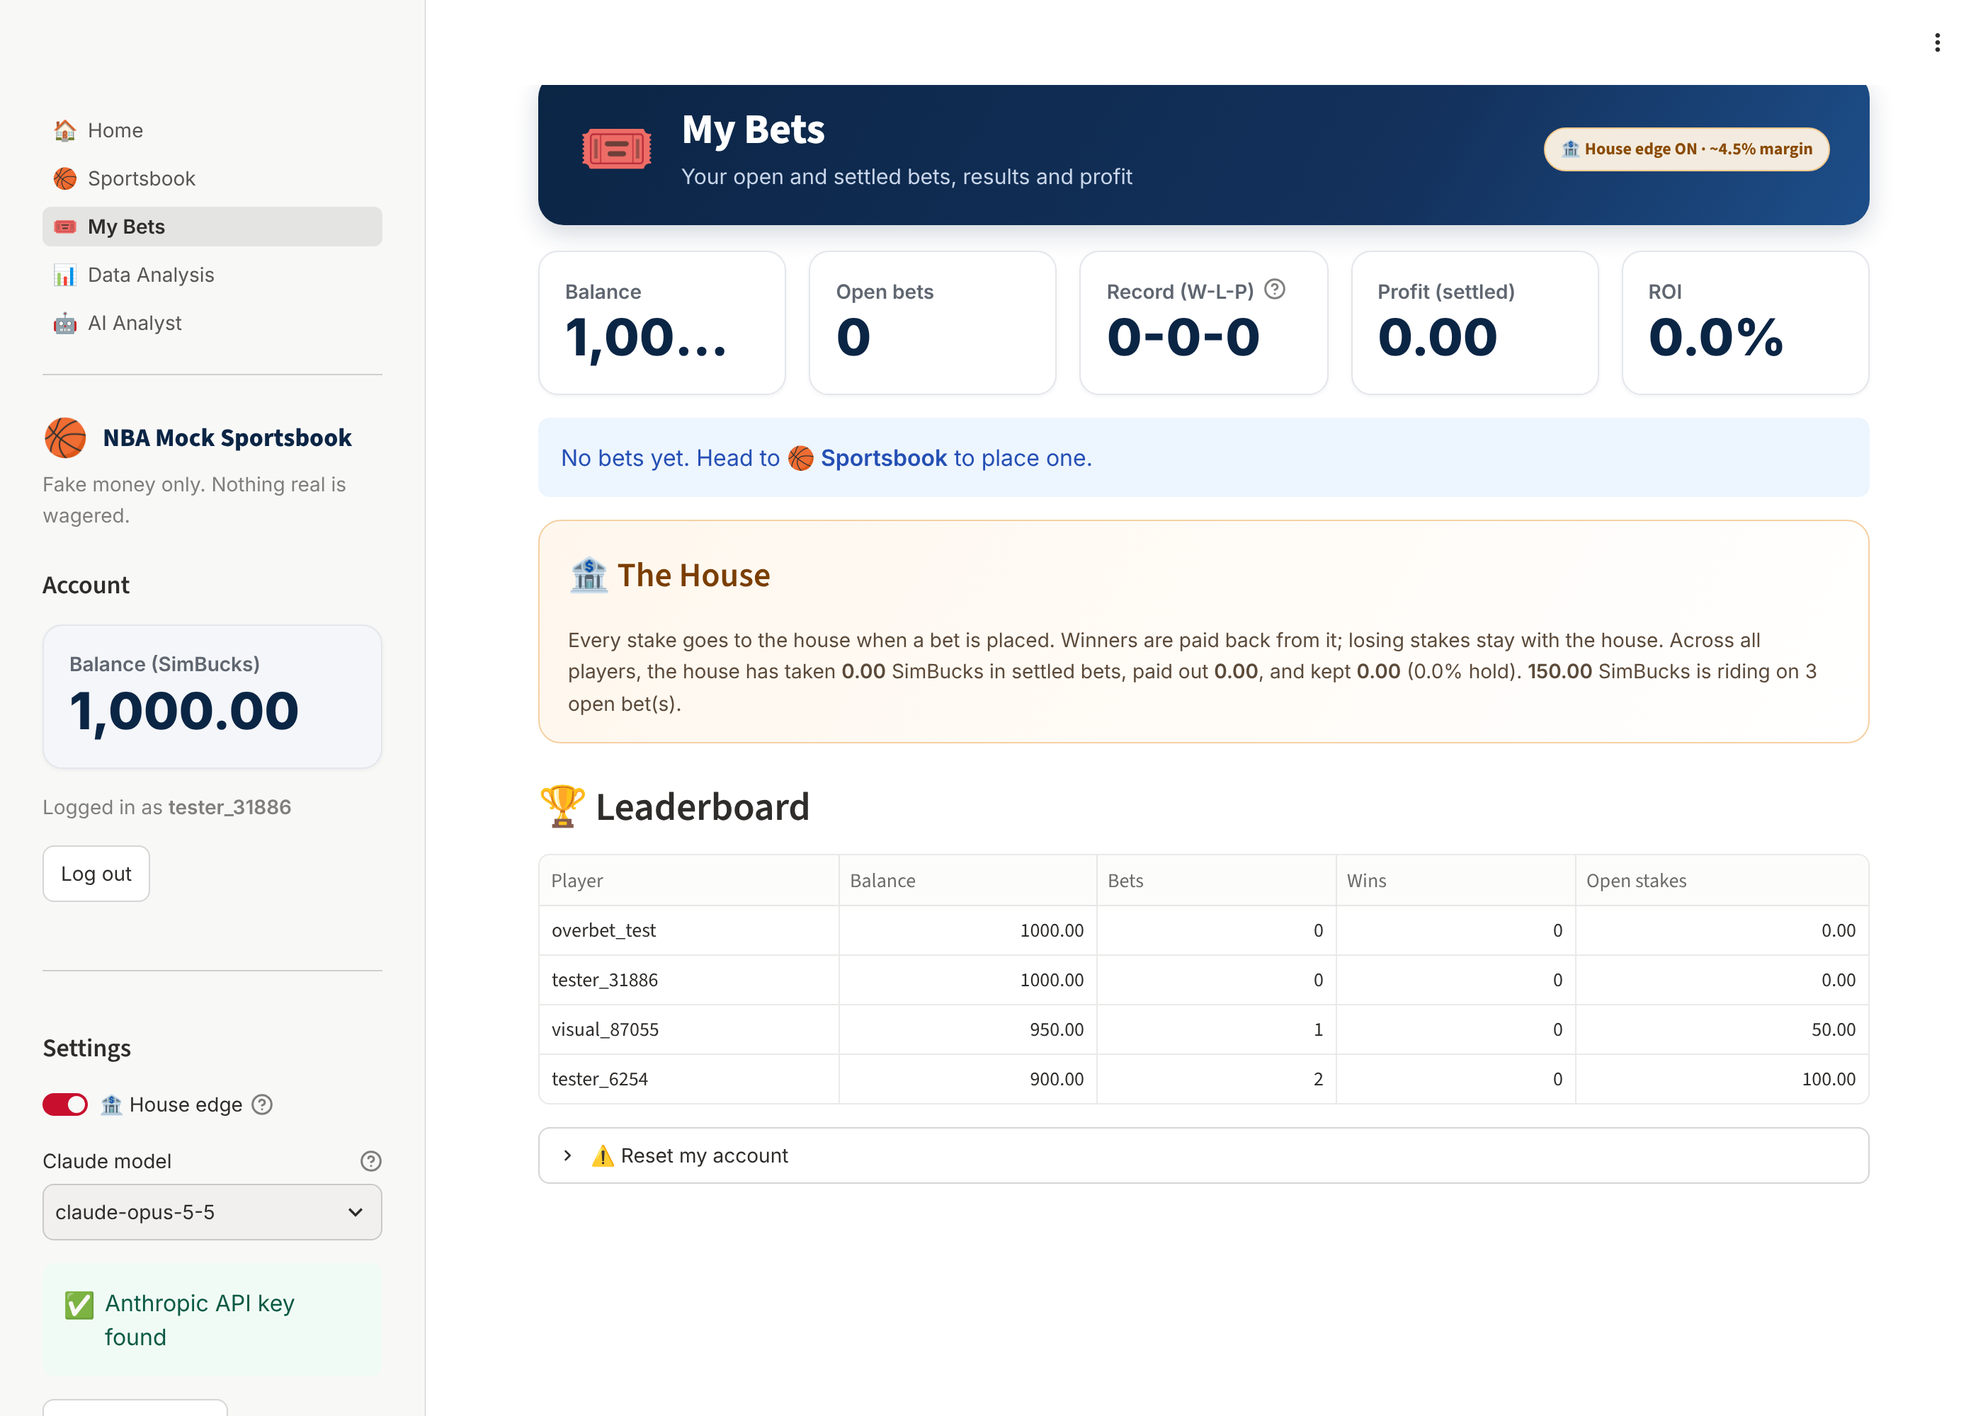
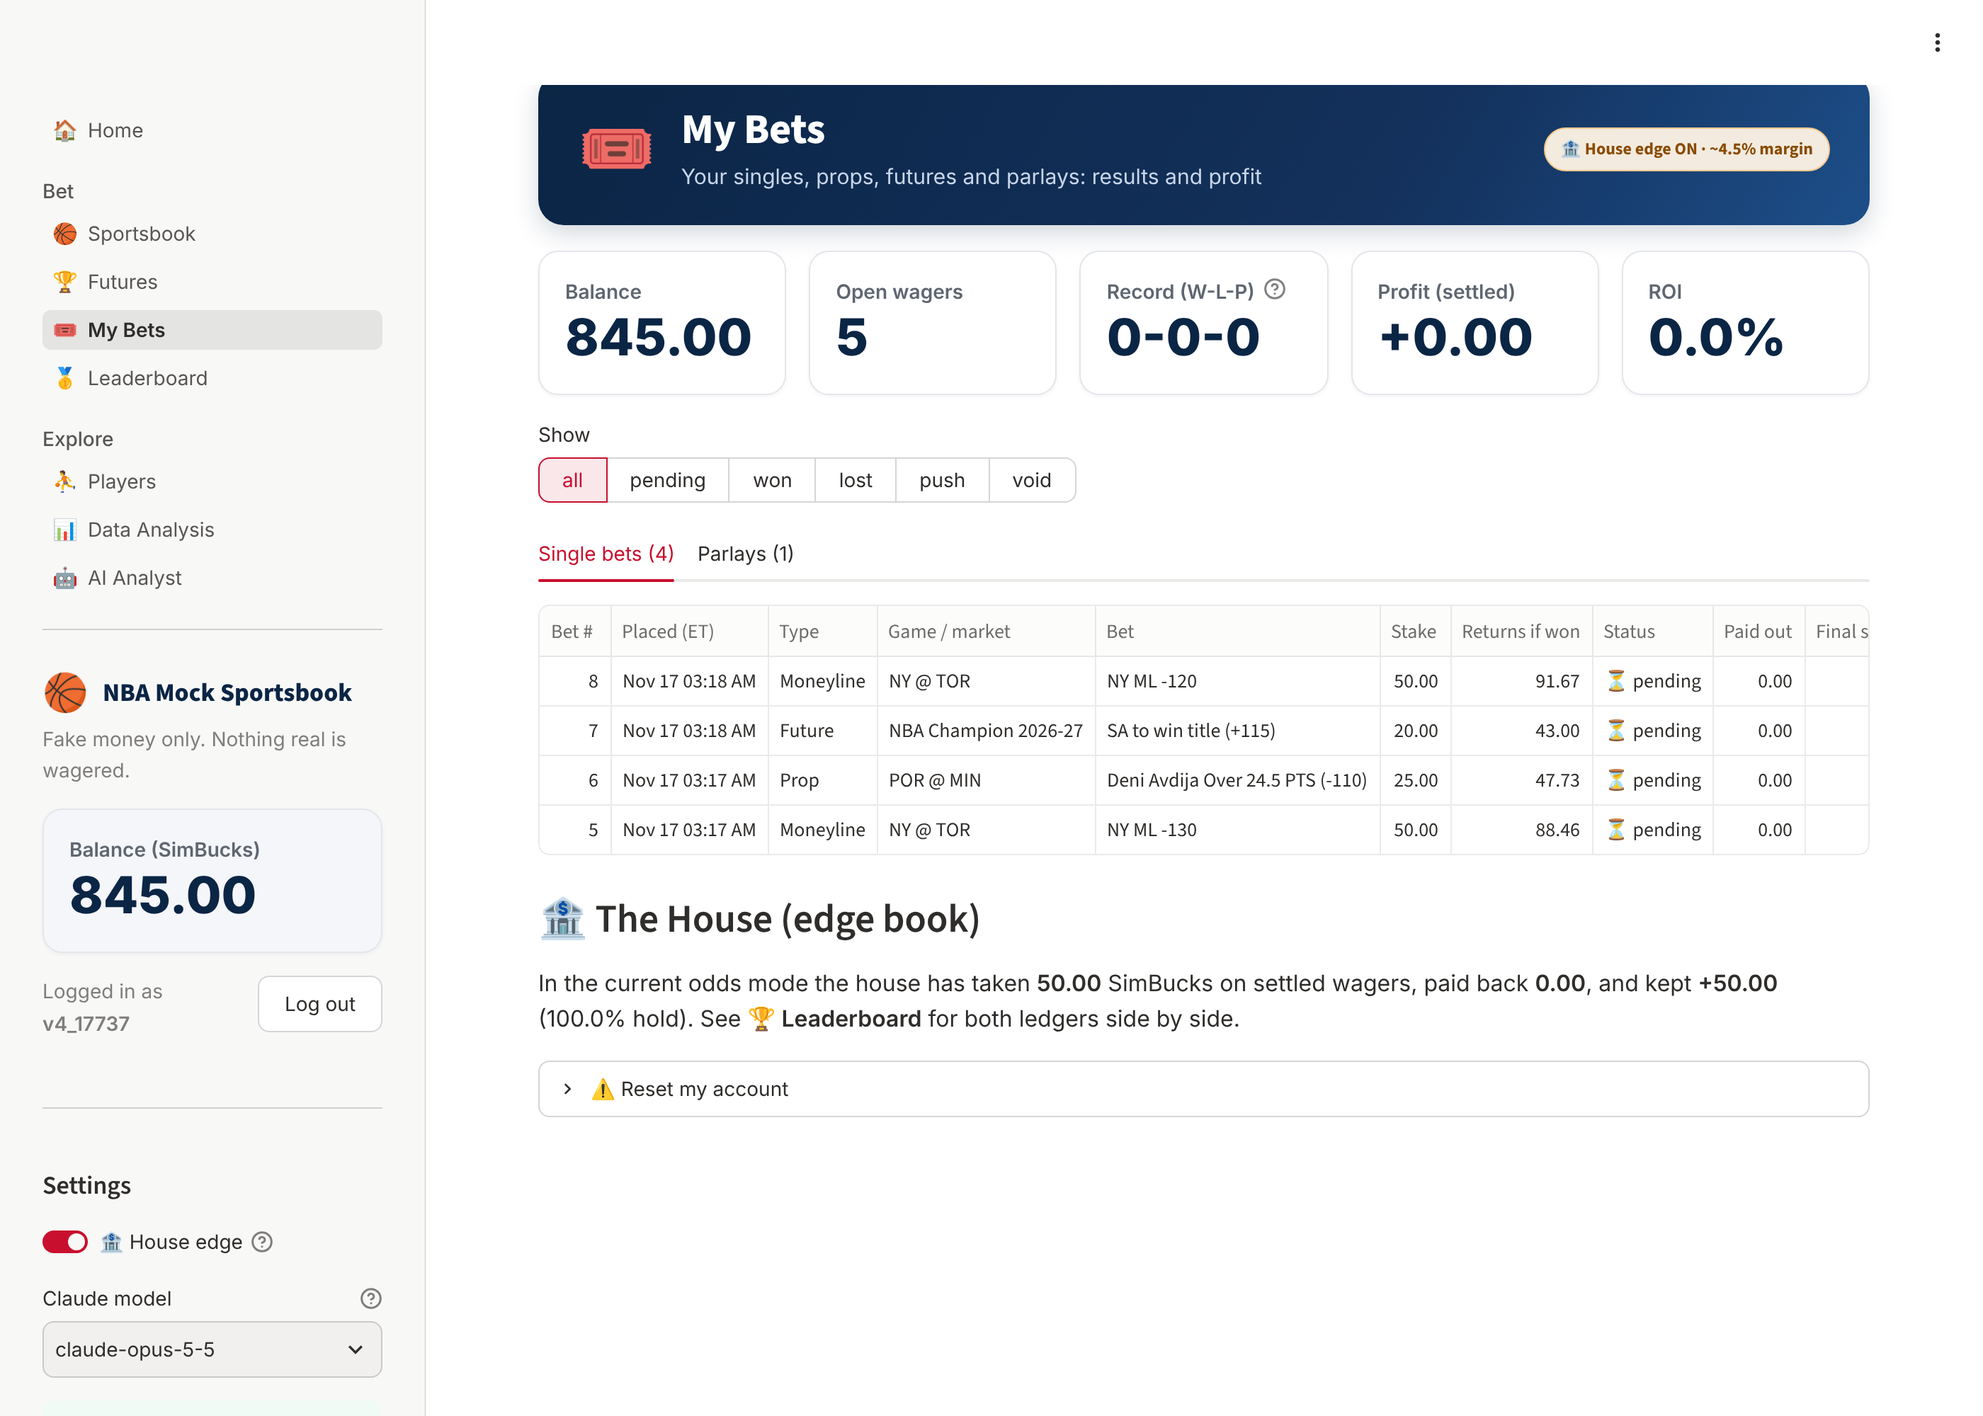
Document new features; refresh screenshots, report and data snapshot
Claude-Session: https://claude.ai/code/session_014QqYfGmHi8meJ8RYUnJZJK

diff --git a/README.md b/README.md
@@ -36,15 +36,18 @@ then into prices. This project rebuilds that pipeline end to end:
 | **Clean & explore** | Missing data, outliers, distributions, trends, correlations | `src/eda.py`, `views/data_analysis.py` |
 | **Model** | Team power ratings (weighted ridge regression) → win probabilities → odds | `src/odds_model.py` |
 | **Evaluate** | Walk-forward back-test: accuracy, Brier score, calibration | `src/odds_model.py::backtest` |
-| **Bet** | Moneyline / spread / total bets; auto-settled from final scores | `src/betting.py`, `views/sportsbook.py` |
+| **Bet** | Moneylines, spreads, totals, **player props**, **parlays** and **futures**; auto-settled from final scores and box scores; two house ledgers | `src/betting.py`, `src/players.py`, `src/futures.py` |
 | **LLM** | AI EDA report, "explain this chart", game previews, analyst chatbot | `src/llm.py`, `views/ai_analyst.py` |
 
 ### App pages
 | Page | What you can do |
 |---|---|
 | 🏠 **Home** | Overview, next games with odds, top power ratings, how-to guide |
-| 🏀 **Sportsbook** | Sportsbook-style game cards with team logos, odds and the model's win probability; a bet slip showing payout, model chance vs. implied odds, and expected value; AI matchup preview |
-| 🎟 **My Bets** | Open/settled bets, W-L-P record, ROI, cumulative profit chart, leaderboard, and **🏦 The House** ledger (house-edge mode) |
+| 🏀 **Sportsbook** | Game cards with team logos, odds and the model's win probability. Each game has a betting panel: **game lines**, **🎯 player props** (points / rebounds / assists / 3PM) and an **AI preview**. **➕ Add to parlay** builds a 2-8 leg **parlay slip** in the sidebar. The bet slip shows payout, model chance vs. implied odds, and expected value |
+| 🏆 **Futures** | Championship odds from a **5,000-run season simulation** (rest of season → play-in → best-of-7 playoffs); bet on the champion |
+| 🎟 **My Bets** | Singles, props, futures and parlays (with each leg's result), W-L-P record, ROI, profit chart, house ledger for the current odds mode |
+| 🥇 **Leaderboard** | Podium, every user ranked by net profit (win %, ROI, biggest win) and **two separate house ledgers** (house-edge book vs. fair-odds book) with a profit-over-time chart |
+| ⛹ **Players** | League leaders with photos, player profiles (season averages, game-log chart and table) and that player's props for the next game |
 | 📊 **Data Analysis** | Interactive EDA with season, game-type and team filters, plus model evaluation and "🤖 Explain this with AI" |
 | 🤖 **AI Analyst** | AI-written EDA report (downloadable) and a chatbot that knows the app's data and your bets |
 
@@ -133,6 +136,15 @@ Response structure (trimmed to the fields we use):
 points, rebounds, assists, FG / 3PT / FT made, attempted and %, plus record). For the analysis it is
 reshaped to **one row per team per game**.
 
+### ESPN game summary API (player box scores)
+| | |
+|---|---|
+| Endpoint | `https://site.api.espn.com/apis/site/v2/sports/basketball/nba/summary?event=<game_id>` |
+| Used for | Player stats per game (minutes, points, rebounds, assists, 3PM, shooting, +/-, starter, did-not-play) for **player props**, prop settlement and the **Players** page |
+| Retrieval | One request per completed game, 8 in parallel; each game is downloaded once. `data/player_games_snapshot.csv` (about 40,000 player-games from 2025-26 and 2026-27) ships with the repo, so a first launch only fetches new games |
+
+Structure: `boxscore.players[team].statistics[0] = {keys: ["minutes", "points", ...], athletes: [{athlete: {id, displayName, headshot}, starter, didNotPlay, stats: ["34", "27", ...]}]}`
+
 **Cleaning:** we remove preseason games and the **All-Star Game**, which ESPN labels as regular season.
 Our missing-data check flagged it because those games have no box scores. Postponed games
 (`STATUS_POSTPONED`) are kept out of the analysis, and bets on them are voided and refunded.
@@ -164,11 +176,24 @@ second regression splits teams into offense (points scored) and defense (points 
 | Book margin (implied probs − 100%) | ≈ 4.5–4.8% | 0% |
 | Bettor's expected value | Negative: the house profits over time | ≈ 0: nobody has an edge |
 
-**Where the money goes.** A stake leaves the bettor's balance when the bet is placed. When the game ends, the house
-pays back stake + winnings (win), the stake (push or postponed game), or nothing (loss), so the house keeps losing stakes and
-pays winners. In house-edge mode, *My Bets* shows **🏦 The House** ledger: total handle, paid out, house profit and hold %.
+**Where the money goes: two house ledgers.** A stake leaves the bettor's balance when the bet is placed and goes to
+the house. When it settles, the house pays back stake + winnings (win), the stake (push or void), or nothing (loss).
+Every wager records which odds mode it was priced in, so the house keeps **two separate ledgers**: the
+**house-edge book** and the **fair-odds book**. The *Leaderboard* shows both side by side, plus a chart of each one's
+cumulative profit over time. Over many bets the edge book trends up (the margin), while the fair book only moves by luck.
 The bet slip also shows each bet's **expected value** (`P(win) × profit − P(loss) × stake`), which makes the house
 edge visible before you bet.
+
+**Player props.** Line = the player's recency-weighted average over the last 20 games (8-game half-life), set at x.5
+so there are no pushes. P(over) = 1 − Φ((line − mean) / sd), using the player's own game-to-game spread.
+Offered for each team's top 4 players by recent minutes who played the team's latest game.
+
+**Parlays.** 2-8 legs from different games (game lines and/or props). Decimal odds multiply. One losing leg loses the
+parlay; pushed or voided legs drop out of the odds.
+
+**Futures (championship).** 5,000 simulated seasons: each team adds Binomial(games left, p) wins (p = its chance to beat an
+average team), then seeding, play-in, and best-of-7 series using the ratings model with home court. Title probability =
+share of simulations won. With the house edge on, futures carry a ~25% margin (real books hold more on futures).
 
 **Key EDA findings** (about 1,520 completed games as of Nov 16, 2026; numbers update as new games finish):
 - **Home-court advantage:** home teams win **55.0%**, by **+1.75 pts** on average. Controlling for team strength, the model estimates **+2.3 pts**.
@@ -195,20 +220,24 @@ The calibration curve tracks the diagonal: teams given a 70% chance win about 70
 nba-sportsbook/
 ├── app.py                    # entry point + page navigation
 ├── views/                    # one file per page (UI only)
-│   ├── home.py  sportsbook.py  my_bets.py  data_analysis.py  ai_analyst.py
+│   ├── home.py  sportsbook.py  futures.py  my_bets.py  leaderboard.py
+│   ├── players.py  data_analysis.py  ai_analyst.py
 ├── src/                      # logic (no Streamlit except ui.py), unit-tested
 │   ├── data_fetcher.py       # ESPN API calls + JSON parsing
 │   ├── data_service.py       # refresh/caching logic, data cleaning, offline snapshot
 │   ├── database.py           # SQLite schema + queries
 │   ├── eda.py                # EDA functions (pure pandas)
 │   ├── odds_model.py         # ratings, odds math, back-test
-│   ├── betting.py            # place / grade / settle / void bets
+│   ├── betting.py            # place / grade / settle bets, props, futures and parlays
+│   ├── players.py            # ESPN box scores, player averages, prop lines
+│   ├── futures.py            # season + playoff Monte Carlo, championship odds
 │   ├── llm.py                # Claude API integration + prompts
 │   ├── charts.py             # Plotly chart builders (one consistent palette)
-│   ├── style.py              # page styling: banners, game cards, odds boxes, house panel
+│   ├── style.py              # page styling: banners, game cards, odds boxes, player cards, podium, ledgers
 │   └── ui.py                 # shared Streamlit helpers (sidebar, caching, streaming)
-├── tests/                    # pytest suite (36 tests; no network or API key needed)
-├── data/games_snapshot.csv   # offline data snapshot
+├── tests/                    # pytest suite (50 tests; no network or API key needed)
+├── data/games_snapshot.csv   # offline data snapshot (games)
+├── data/player_games_snapshot.csv  # player box scores (offline + fast first launch)
 ├── docs/                     # report, presentation plan, team workflow, screenshots
 ├── .github/workflows/ci.yml  # GitHub Actions: lint + tests on every push / PR
 ├── pyproject.toml            # ruff (lint) + pytest config
@@ -219,7 +248,8 @@ nba-sportsbook/
 
 ## 7. Testing & code quality
 ```bash
-pytest -q          # 36 unit tests: odds math, bet grading/settlement/voiding, JSON parsing,
+pytest -q          # 50 unit tests: odds math, bet grading/settlement/voiding, parlays, props, futures,
+                   # house ledgers, leaderboard, database upgrade, season simulation, JSON parsing,
                    # model recovers known team strengths, EDA helpers, LLM prompts & error handling
 pip install ruff
 ruff check .       # lint (style, imports, common bugs)
@@ -233,15 +263,15 @@ The LLM tests use a fake client, so they need no API key and cost nothing.
 
 | Requirement | Where it's met |
 |---|---|
-| Connect to an external API for real data | ESPN API, `src/data_fetcher.py` |
+| Connect to an external API for real data | ESPN scoreboard API (games) + ESPN summary API (player box scores): `src/data_fetcher.py`, `src/players.py` |
 | Document source and structure (JSON) | Section 4 above; *Data Analysis → Overview → Data source* |
-| Data retrieval and storage logic | `src/data_service.py` (incremental refresh), `src/database.py` (SQLite) |
+| Data retrieval and storage logic | `src/data_service.py`, `src/players.py` (incremental, parallel), `src/database.py` (SQLite with in-place upgrades) |
 | Descriptive statistics and visualizations | *Data Analysis → Distributions & trends* |
 | Outliers and missing data: identify and treat | *Data Analysis → Data quality* (IQR, winsorizing; All-Star and postponed games) |
 | Correlation analysis | *Data Analysis → Correlations* (Pearson/Spearman heatmap, scatter + fit) |
 | Insights shown in the app | *Overview → Key insights*, playoff insight, model evaluation |
 | LLM via API, used meaningfully | `src/llm.py`: report, chart explanations, previews, chatbot |
-| Clean UI; users can filter, visualize and query | Sportsbook-style design with team logos; filters on Sportsbook and EDA pages; house-edge switch; chatbot for natural-language queries |
+| Clean UI; users can filter, visualize and query | 8 pages in a sportsbook-style design (logos, player photos); filters on Sportsbook, Players and EDA pages; house-edge switch; parlay slip; chatbot for natural-language queries |
 | Error handling, documentation, user guidance | Friendly errors everywhere, offline fallback, how-to on Home, tooltips |
 | Modular, documented, readable code | `src/` vs `views/` split, docstrings, ruff lint |
 | Git/GitHub with commits from each member | See section 9 and `docs/TEAM_WORKFLOW.md` |

diff --git a/docs/PRESENTATION.md b/docs/PRESENTATION.md
@@ -8,12 +8,12 @@ Each member presents the part they built. Rehearse once with a timer.
 | 1:00–3:00 | **Data acquisition** | Member 1 | ESPN API: free JSON, one request per month, cached in SQLite, offline CSV fallback. Show *Data Analysis → Overview → Data source* and the JSON example in the README. |
 | 3:00–6:00 | **EDA** | Member 2 | *Data quality*: **the All-Star Game story** (games with missing box scores revealed ESPN labels the All-Star Game as regular season) plus **postponed games**. *Outliers*: move the IQR slider; winsorizing barely changes the mean. *Correlations*: **FG% r = 0.47 vs. 3PT attempts r ≈ 0, so efficiency beats volume**. *Trends*: **playoff games score about 15 fewer points**. Click **🤖 Explain this with AI** once. |
 | 6:00–8:30 | **The model** | Member 3 | *Teams*: ridge-regression power ratings, home court ≈ +2.3 pts. *Model evaluation*: **68% accuracy vs. 55% for always picking home**, Brier 0.208 vs. 0.25, and the **calibration plot** (key slide: 70% favorites win about 70%). |
-| 8:30–12:30 | **Live demo** | Member 4 | Log in → **Sportsbook** → pick a game → **AI matchup preview** → open the bet slip: point at **model chance vs. odds imply** and the **negative expected value** (that's the house edge) → **flip the 🏦 House edge switch off**: odds become even money, margin 0%, EV ≈ 0 → switch it back on → place a spread bet → balance drops instantly → **My Bets** shows yesterday's **settled** bets, the profit chart and **🏦 The House** ledger (what the house kept) → **AI Analyst** → *Generate report* → chatbot: "Which upcoming game has the closest odds?" then "How am I doing with my bets?" |
-| 12:30–14:00 | **Engineering** | Anyone | `src/` (logic) vs `views/` (UI); 36 pytest tests incl. a fake-LLM test; GitHub Actions CI badge/run; PR workflow; graceful errors (no key, ESPN offline, postponed games). |
+| 8:30–12:30 | **Live demo** | Member 4 | Log in → **Sportsbook**: open a game's bet panel → **🎯 Player props** tab (player card, last-10 average) → **➕ Add to parlay** on 2-3 games → place the parlay from the sidebar slip → **🏆 Futures** (the 5,000-season simulation, title favorite) → **⛹ Players** (league leaders, a player's game log) → back to **Sportsbook** → pick a game → **AI matchup preview** → open the bet slip: point at **model chance vs. odds imply** and the **negative expected value** (that's the house edge) → **flip the 🏦 House edge switch off**: odds become even money, margin 0%, EV ≈ 0 → switch it back on → place a spread bet → balance drops instantly → **My Bets** shows yesterday's **settled** bets and the parlay's leg-by-leg results → **🥇 Leaderboard**: podium, standings and the **two house ledgers** (edge vs. fair) with the profit-over-time chart → **AI Analyst** → *Generate report* → chatbot: "Which upcoming game has the closest odds?" then "How am I doing with my bets?" |
+| 12:30–14:00 | **Engineering** | Anyone | `src/` (logic) vs `views/` (UI); 50 pytest tests (parlays, props, futures, ledgers, database upgrade, fake-LLM); GitHub Actions CI badge/run; PR workflow; graceful errors (no key, ESPN offline, postponed games). |
 | 14:00–15:00 | **Lessons & next steps** | Anyone | Real data is messy; evaluate honestly (walk-forward); ground the LLM in your own numbers. Next: injuries/rest days, compare with real sportsbook lines, parlays. |
 
 ## Demo-day checklist
-- [ ] **The night before:** log in as your demo user and place 3–4 bets on that night's games, so by class they've **settled** and My Bets shows a W-L record and profit chart
+- [ ] **The night before:** log in as your demo user and place 3–4 bets on that night's games (include one **player prop** and one **parlay**), so by class they've **settled** and My Bets shows a W-L record, profit chart and parlay results
 - [ ] Start the app on the presenting laptop **before** class: `streamlit run app.py` (first load downloads data)
 - [ ] `.streamlit/secrets.toml` has a working key; click one **AI matchup preview** before presenting
 - [ ] Backup: take screenshots of AI output in case the Wi-Fi fails (the rest of the app works offline)
@@ -21,7 +21,9 @@ Each member presents the part they built. Rehearse once with a timer.
 
 ## Likely questions & answers
 - **Is the sportsbook fair?** The lines are centered on the model's best estimate, so it doesn't pick winners against you. The only unfairness is the margin (vig), like every real book. The switch turns it off, and the bet slip's expected value goes to about 0.
-- **Where does lost money go?** To the house: stakes leave your balance when you bet, winners are paid back, and losing stakes stay with the house. See the House ledger on My Bets.
+- **Where does lost money go?** To the house: stakes leave your balance when you bet, winners are paid back, and losing stakes stay with the house. There are two ledgers, house-edge book and fair book, on the Leaderboard. The edge book trends up over time; the fair book only moves by luck.
+- **How are futures priced?** A Monte Carlo simulation: 5,000 seasons of remaining games, play-in and best-of-7 series from the ratings model. Title chance = share of simulations won.
+- **How are props set?** Each player's recency-weighted average of the last 20 games, at x.5 so there are no pushes. P(over) uses the player's own game-to-game spread.
 - **Why not use real sportsbook odds?** The free API doesn't have them, and building our own odds model was the data-science challenge. Comparing against real lines is future work.
 - **Why ridge regression?** Early in the season teams have only about 13 games. Ridge pulls noisy ratings toward average, and recency weighting tracks roster changes.
 - **How do you know it isn't overfit?** The walk-forward back-test only predicts games *after* each training cutoff, refitting weekly.
